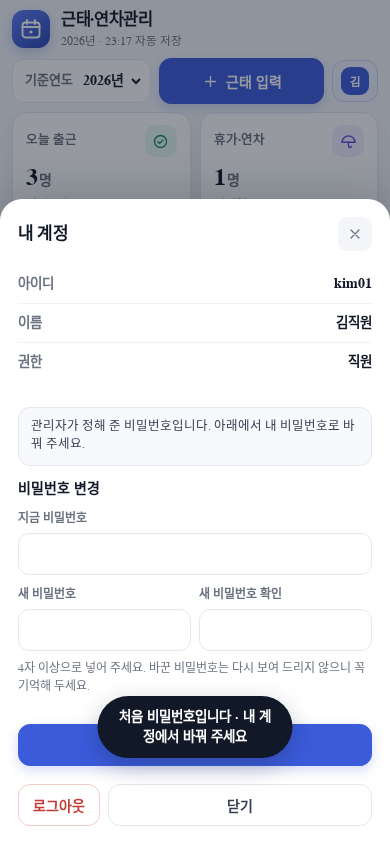
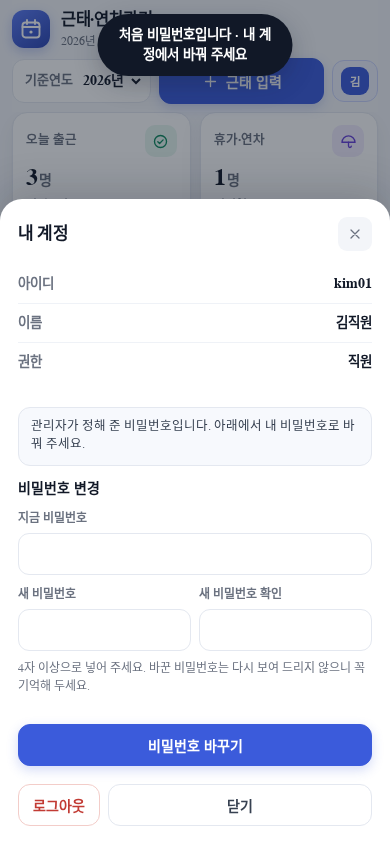
근태·연차관리: 로그인·암호화·사용자 관리 (index.html 포함)

Changed region(s): [[0.2462, 0.8009, 0.7692, 0.9242], [0.2462, 0.0, 0.7692, 0.0924]]

diff --git a/index.html b/index.html
@@ -281,6 +281,8 @@ svg.ic{width:20px;height:20px;flex:0 0 auto;fill:none;stroke:currentColor;stroke
   animation:toastin .18s ease-out;
 }
 .toast[hidden]{display:none}
+/* 모달이 열려 있으면 토스트는 위로 올라가 모달 버튼을 가리지 않는다 */
+body:has(.modal:not([hidden])) .toast{bottom:auto;top:calc(14px + env(safe-area-inset-top,0px))}
 @keyframes toastin{from{opacity:0;transform:translate(-50%,8px)}to{opacity:1;transform:translate(-50%,0)}}
 
 /* ---------- responsive ---------- */
